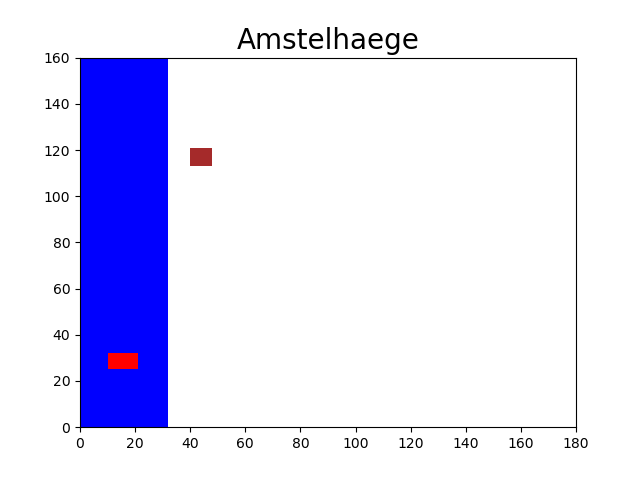
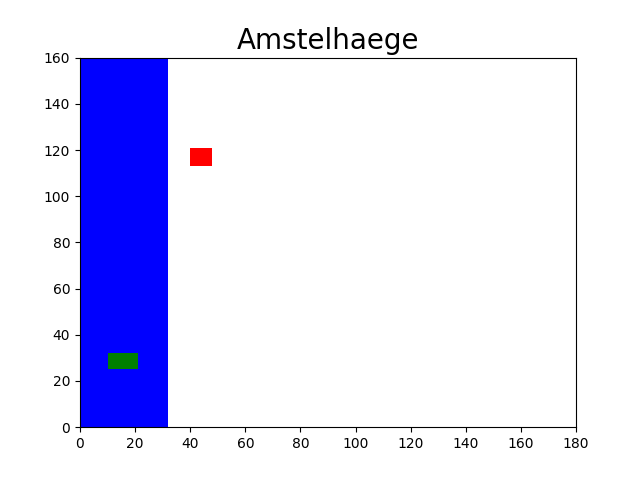
cleanup visualisation

diff --git a/code/visualisation/visualize.py b/code/visualisation/visualize.py
@@ -12,37 +12,21 @@ def visualisation(output):
     fig, ax = plt.subplots()
 
     for row in datapoints[1:len(datapoints)-1]:
-        if row[5].strip() == 'WATER':
-            bottom_left = row[1].split(',')
-            top_left = row[2].split(',')
-            top_right = row[3].split(',')
-            bottom_right = row[4].split(',')
+        bottom_left = row[1].split(',')
+        top_left = row[2].split(',')
+        top_right = row[3].split(',')
+        bottom_right = row[4].split(',')
+        type_house = row[5].strip()
+        if type_house == 'WATER':
             ax.add_patch(Rectangle((int(bottom_left[0]), int(bottom_left[1])), int(bottom_right[1]) - int(bottom_left[1]),
                             int(top_left[0]) - int(bottom_left[0]), facecolor = 'blue'))
-
-        if row[5].strip() == 'EENGEZINSWONING':
-            bottom_left = row[1].split(',')
-            top_left = row[2].split(',')
-            top_right = row[3].split(',')
-            bottom_right = row[4].split(',')
+        elif type_house == 'EENGEZINSWONING':
             ax.add_patch(Rectangle((int(bottom_left[0]), int(bottom_left[1])), int(bottom_right[1]) - int(bottom_left[1]),
-                            int(top_left[0]) - int(bottom_left[0]), facecolor = 'brown'))
-
-
-        if row[5].strip() == 'BUNGALOW':
-            bottom_left = row[1].split(',')
-            top_left = row[2].split(',')
-            top_right = row[3].split(',')
-            bottom_right = row[4].split(',')
+                            int(top_left[0]) - int(bottom_left[0]), facecolor = 'red'))
+        elif type_house == 'BUNGALOW':
             ax.add_patch(Rectangle((int(bottom_left[0]), int(bottom_left[1])), int(bottom_right[1]) - int(bottom_left[1]),
-                            int(top_left[0]) - int(bottom_left[0]), facecolor = 'brown'))
-
-
-        if row[5].strip() == 'MAISON':
-            bottom_left = row[1].split(',')
-            top_left = row[2].split(',')
-            top_right = row[3].split(',')
-            bottom_right = row[4].split(',')
+                            int(top_left[0]) - int(bottom_left[0]), facecolor = 'green'))
+        elif type_house == 'MAISON':
             ax.add_patch(Rectangle((int(bottom_left[0]), int(bottom_left[1])), int(bottom_right[1]) - int(bottom_left[1]),
                             int(top_left[0]) - int(bottom_left[0]), facecolor = 'brown'))
 
